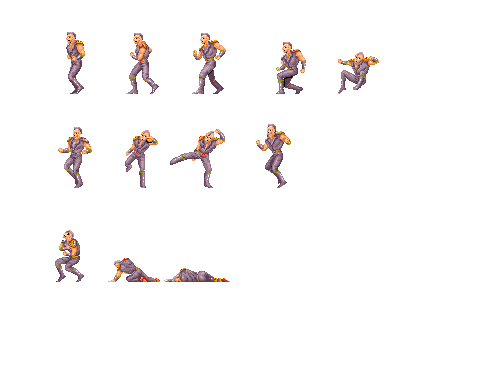
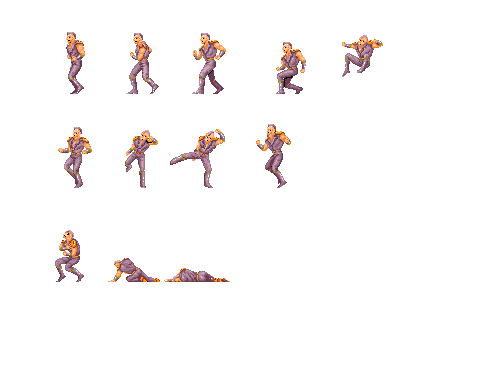
enemy jump

diff --git a/Shinobi/Shinobi/Source/Enemy_Fighter.cpp b/Shinobi/Shinobi/Source/Enemy_Fighter.cpp
@@ -33,10 +33,17 @@ Enemy_Fighter::Enemy_Fighter(int x, int y) : Enemy(x, y)
 	hitAnim.speed = 0.14f;
 	hitAnim.loop = false;
 
+	jumpAnim.PushBack({ 326,29,68,66 });
+	jumpAnim.PushBack({ 259,29,68,66 });
+	jumpAnim.speed = 0.04f;
+	jumpAnim.loop = false;
+
+	dieAnim.PushBack({ 29,217,68,66 });
+	dieAnim.PushBack({ 96,217,68,66 });
 	dieAnim.PushBack({ 164,217,68,66 });
 	dieAnim.PushBack({ 164,217,68,66 });
 	dieAnim.PushBack({ 0,0,0,0 });
-	dieAnim.speed = 0.08f;
+	dieAnim.speed = 0.1f;
 	dieAnim.loop = false;
 
 
@@ -65,7 +72,13 @@ void Enemy_Fighter::Update()
 				shot++;
 				if (position.x - App->player->position.x >= pdistance - 175)
 				{
-					currentAnim = &walkAnim;
+					if (jump && currentAnim != &jumpAnim)
+					{
+						currentAnim = &jumpAnim;
+						currentAnim->Reset();
+					}
+					else if (jump) currentAnim = &jumpAnim;
+					else currentAnim = &walkAnim;
 					position.x--;
 				}
 				else if (shot >= 100)
@@ -110,7 +123,13 @@ void Enemy_Fighter::Update()
 
 				if (position.x - App->player->position.x <= -(pdistance - 140))
 				{
-					currentAnim = &walkAnim;
+					if (jump && currentAnim != &jumpAnim)
+					{
+						currentAnim = &jumpAnim;
+						currentAnim->Reset();
+					}
+					else if (jump) currentAnim = &jumpAnim;
+					else currentAnim = &walkAnim;
 					position.x++;
 				}
 				else if (shot >= 100)
@@ -142,20 +161,38 @@ void Enemy_Fighter::Update()
 				}
 			}
 		}
-		if (isCollidingLeft&& !isCollidingRight)
+		if (isCollidingLeft && !isCollidingRight)
 		{
-			currentAnim = &walkAnim;
+			if (jump && currentAnim != &jumpAnim)
+			{
+				currentAnim = &jumpAnim;
+				currentAnim->Reset();
+			}
+			else if (jump) currentAnim = &jumpAnim;
+			else currentAnim = &walkAnim;
 			position.x++;
 		}
-		if (isCollidingRight&& !isCollidingLeft)
+		if (isCollidingRight && !isCollidingLeft)
 		{
-			currentAnim = &walkAnim;
+			if (jump && currentAnim != &jumpAnim)
+			{
+				currentAnim = &jumpAnim;
+				currentAnim->Reset();
+			}
+			else if (jump) currentAnim = &jumpAnim;
+			else currentAnim = &walkAnim;
 			position.x--;
 		}
 		//walk path
 		else if (!pl && !reloading && !shooting)
 		{
-			currentAnim = &walkAnim;
+			if (jump && currentAnim != &jumpAnim)
+			{
+				currentAnim = &jumpAnim;
+				currentAnim->Reset();
+			}
+			else if (jump) currentAnim = &jumpAnim;
+			else currentAnim = &walkAnim;
 			if (position.x >= spawnPos.x + 100 && !isCollidingRight)
 			{
 				changedirection = true;
@@ -204,6 +241,7 @@ void Enemy_Fighter::Update()
 			}
 		}
 		collider->SetPos(position.x + 25, position.y+4);
+		
 		//attack->SetPos(position.x + 25, position.y + 4);
 	}
 	else if (die) {
@@ -215,7 +253,7 @@ void Enemy_Fighter::Update()
 		attack->rect.h = 0;
 		attack->SetPos(0, 0);
 	}
-
+	jump = false;
 	//feet->SetPos(position.x, position.y + 69);
 
 	// Call to the base class. It must be called at the end

diff --git a/Shinobi/Shinobi/Source/Enemy_Purple.cpp b/Shinobi/Shinobi/Source/Enemy_Purple.cpp
@@ -35,7 +35,6 @@ Enemy_Purple::Enemy_Purple(int x, int y) : Enemy(x, y)
 	hitAnim.speed = 0.14f;
 	hitAnim.loop = false;
 
-	dieAnim.PushBack({ 116,165,54,72 });
 	dieAnim.PushBack({ 171,165,54,72 });
 	dieAnim.PushBack({ 6,238,54,72 });
 	dieAnim.PushBack({ 6,238,54,72 });

diff --git a/Shinobi/Shinobi/Source/ModuleEnemies.cpp b/Shinobi/Shinobi/Source/ModuleEnemies.cpp
@@ -231,6 +231,7 @@ void ModuleEnemies::OnCollision(Collider* c1, Collider* c2)
 			if (c2->type == Collider::Type::BOX)
 			{
 				enemies[i]->ground = true;
+				enemies[i]->jump = true;
 				enemies[i]->position.y--;
 			}
 			if (c2->type == Collider::Type::WALL)

diff --git a/Shinobi/Shinobi/Source/Enemy.h b/Shinobi/Shinobi/Source/Enemy.h
@@ -44,6 +44,7 @@ public:
 	int destroyedFx = 0;
 
 	bool ground = false;
+	bool jump = false;
 	bool flip = true;
 	bool collision = true;
 	bool isCollidingRight = false;

diff --git a/Shinobi/Shinobi/Source/Enemy_Fighter.h b/Shinobi/Shinobi/Source/Enemy_Fighter.h
@@ -35,6 +35,7 @@ private:
 	Animation walkAnim;
 	Animation hitAnim;
 	Animation dieAnim;
+	Animation jumpAnim;
 
 	bool changedirection = true;
 
